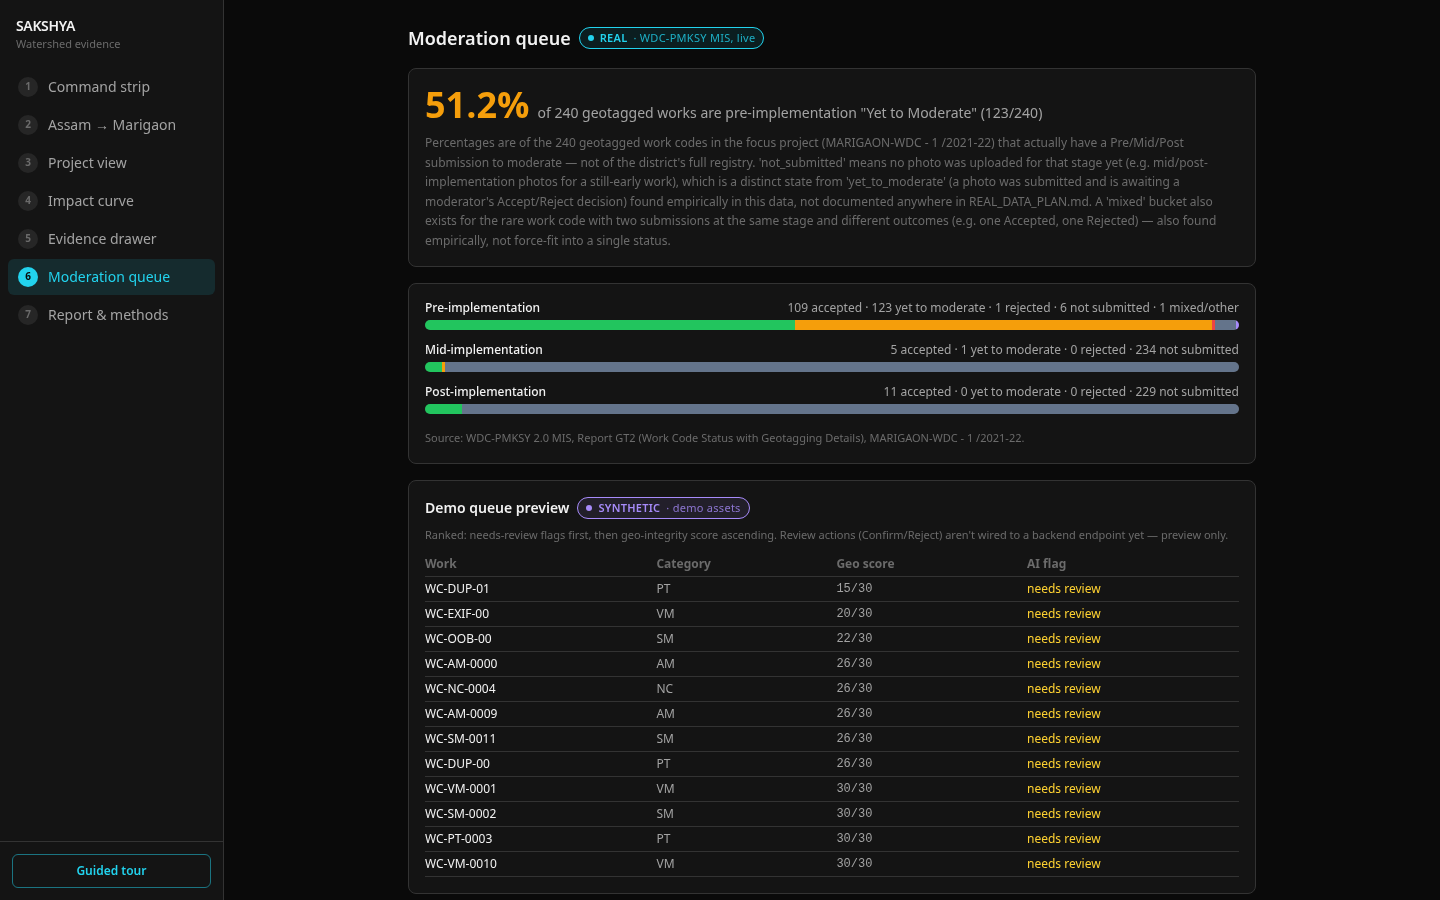
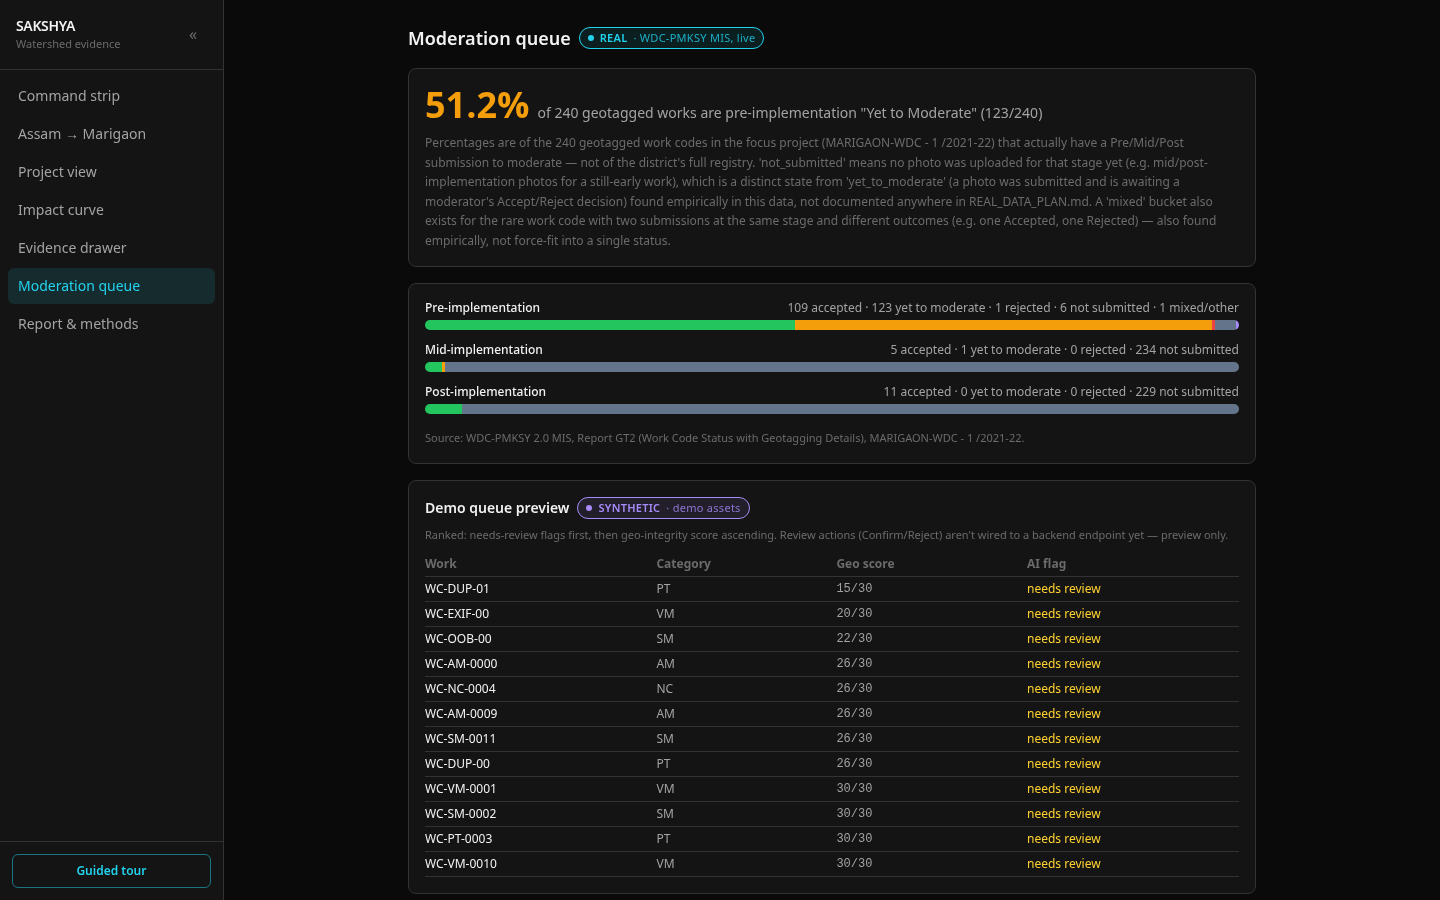
fix(web): sidebar — remove numbered badges, add collapse toggle
Direct human feedback while checking the previous round's sidebar
work: drop the per-item numbered circle badge (label text alone is
enough, the number added visual noise without adding information),
and make the sidebar collapsible so it can get out of the way,
especially on beats 2/3's full-bleed maps.

Collapsed state (56px) shows each beat's first letter as a compact
identifier (C/A/P/I/E/M/R - none collide) with a title tooltip for
accessibility, rather than adding an icon library for a single
sidebar. Toggle button flips a chevron-style glyph («/») and is
keyboard/aria accessible (aria-expanded, aria-label). Internal
component state only, not persisted - not asked for, keeps the change
scoped.

Verified with a one-off Puppeteer check (expanded + collapsed
screenshots) before committing, then re-ran the full 7-beat screenshot
capture against the live API to refresh docs/screenshots/ with the
current state. tsc -b and npm run build both clean.

Changed region(s): [[0.0, 0.0933, 0.1562, 0.3733]]

diff --git a/web/src/components/shell/Sidebar.tsx b/web/src/components/shell/Sidebar.tsx
@@ -1,13 +1,16 @@
+import { useState } from 'react'
 import { BEATS } from './beats'
 
 /**
  * Left rail navigation, replacing the old top horizontal `BeatNav` strip —
  * the human referenced the Hotstar/Disney+ pattern: a fixed-width column,
  * items stacked vertically, current item picked out with the accent
- * colour. Fixed at a narrow 224px rather than a wide rail or a
- * hover-to-expand icon state — beats 2 and 3 are full-bleed maps that need
- * the horizontal space, so the tradeoff is resolved in the map's favour: a
- * width that comfortably fits "icon + label" on one line and nothing more.
+ * colour. Collapsible: expanded is 224px (comfortably fits a label on one
+ * line, nothing more); collapsed is a 56px icon rail using each beat's
+ * first letter as a compact identifier (no icon set in this project yet,
+ * and none of the 7 titles collide on their first letter: C/A/P/I/E/M/R).
+ * Beats 2 and 3 are full-bleed maps, so collapsing recovers real map width
+ * rather than being pure decoration.
  */
 export function Sidebar({
   active,
@@ -18,17 +21,34 @@ export function Sidebar({
   onSelect: (id: number) => void
   onStartTour: () => void
 }) {
+  const [collapsed, setCollapsed] = useState(false)
+
   return (
     <nav
       aria-label="Dashboard beats"
-      className="no-print flex h-full w-56 shrink-0 flex-col border-r border-(--border) bg-(--surface)"
+      className={`no-print flex h-full shrink-0 flex-col border-r border-(--border) bg-(--surface) transition-[width] duration-150 ${
+        collapsed ? 'w-14' : 'w-56'
+      }`}
     >
-      <div className="px-4 py-4">
-        <p className="text-sm font-semibold tracking-tight text-(--text)">SAKSHYA</p>
-        <p className="text-[11px] text-(--text-faint)">Watershed evidence</p>
+      <div className={`flex items-center border-b border-(--border) ${collapsed ? 'justify-center px-2 py-3' : 'justify-between px-4 py-4'}`}>
+        {!collapsed && (
+          <div className="min-w-0">
+            <p className="truncate text-sm font-semibold tracking-tight text-(--text)">SAKSHYA</p>
+            <p className="truncate text-[11px] text-(--text-faint)">Watershed evidence</p>
+          </div>
+        )}
+        <button
+          type="button"
+          onClick={() => setCollapsed((c) => !c)}
+          aria-label={collapsed ? 'Expand sidebar' : 'Collapse sidebar'}
+          aria-expanded={!collapsed}
+          className="flex h-7 w-7 shrink-0 items-center justify-center rounded-md text-(--text-faint) hover:bg-(--surface-2) hover:text-(--text)"
+        >
+          {collapsed ? '»' : '«'}
+        </button>
       </div>
 
-      <ol className="flex-1 space-y-0.5 overflow-y-auto px-2">
+      <ol className="flex-1 space-y-0.5 overflow-y-auto px-2 py-2">
         {BEATS.map((beat) => {
           const isActive = active === beat.id
           return (
@@ -37,18 +57,16 @@ export function Sidebar({
                 type="button"
                 onClick={() => onSelect(beat.id)}
                 aria-current={isActive ? 'step' : undefined}
-                className={`flex w-full items-center gap-2.5 rounded-md px-2.5 py-2 text-left text-sm transition-colors ${
-                  isActive ? 'bg-(--accent-bg) text-(--accent)' : 'text-(--text-muted) hover:bg-(--surface-2) hover:text-(--text)'
-                }`}
+                title={collapsed ? beat.title : undefined}
+                className={`flex w-full items-center rounded-md text-left text-sm transition-colors ${
+                  collapsed ? 'justify-center px-0 py-2.5' : 'gap-2.5 px-2.5 py-2'
+                } ${isActive ? 'bg-(--accent-bg) text-(--accent)' : 'text-(--text-muted) hover:bg-(--surface-2) hover:text-(--text)'}`}
               >
-                <span
-                  className={`flex h-5 w-5 shrink-0 items-center justify-center rounded-full text-[10px] font-bold ${
-                    isActive ? 'bg-(--accent) text-(--bg)' : 'bg-(--surface-3) text-(--text-faint)'
-                  }`}
-                >
-                  {beat.id}
-                </span>
-                <span className="truncate">{beat.title}</span>
+                {collapsed ? (
+                  <span className="text-sm font-semibold">{beat.title.charAt(0)}</span>
+                ) : (
+                  <span className="truncate">{beat.title}</span>
+                )}
               </button>
             </li>
           )
@@ -59,9 +77,10 @@ export function Sidebar({
         <button
           type="button"
           onClick={onStartTour}
+          title={collapsed ? 'Guided tour' : undefined}
           className="flex w-full items-center justify-center gap-1.5 rounded-md border border-(--accent)/50 px-3 py-2 text-xs font-semibold text-(--accent) hover:bg-(--accent-bg)"
         >
-          Guided tour
+          {collapsed ? '▸' : 'Guided tour'}
         </button>
       </div>
     </nav>
